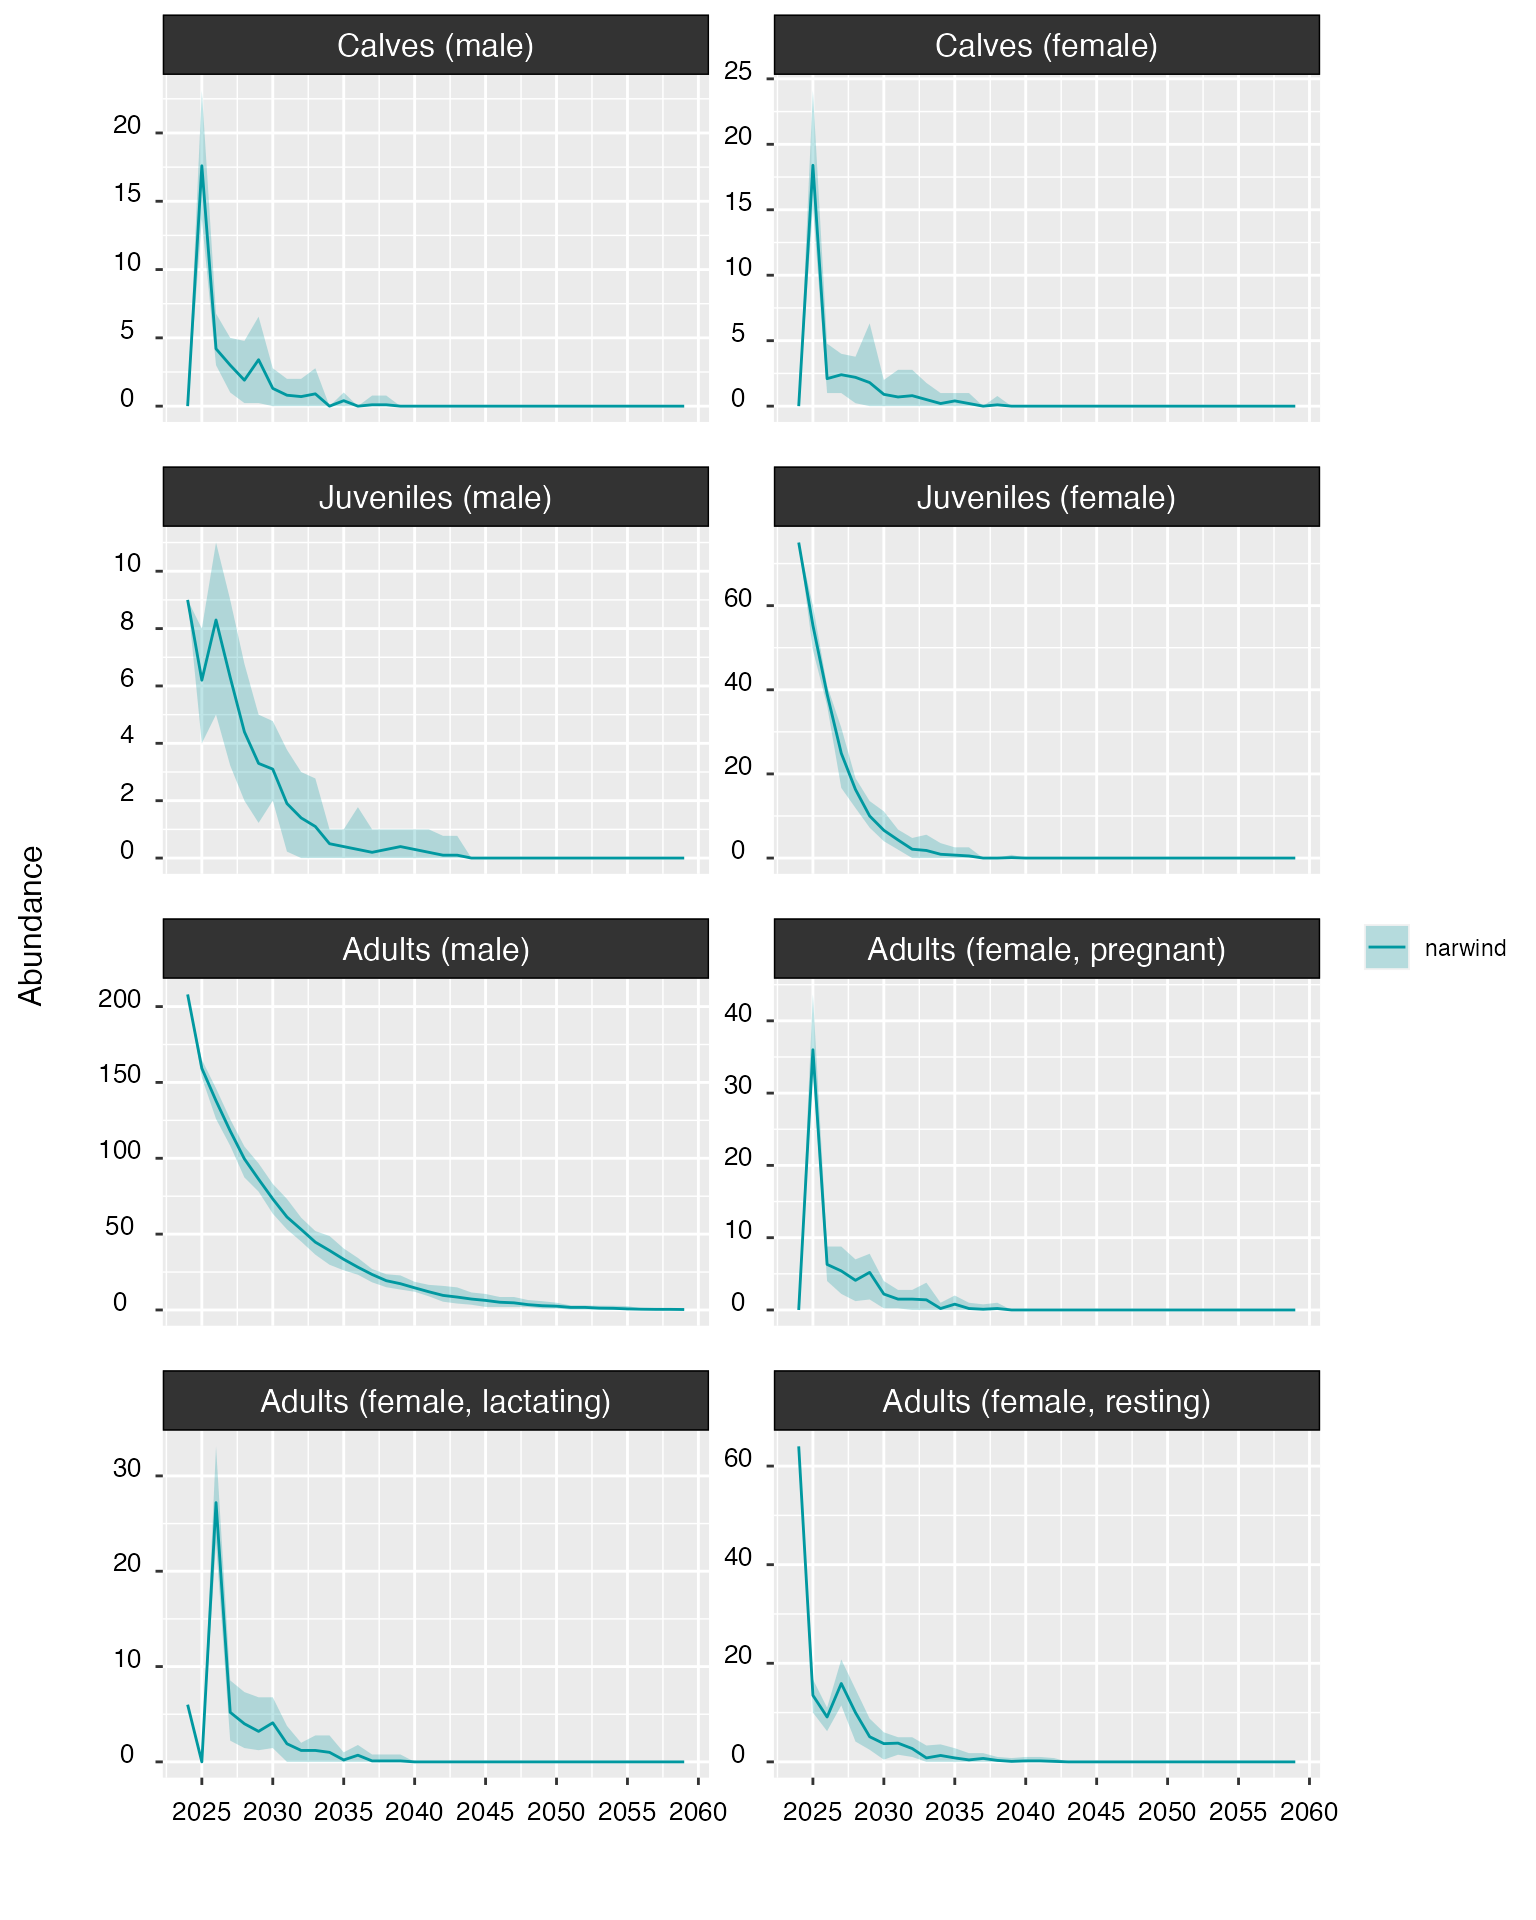
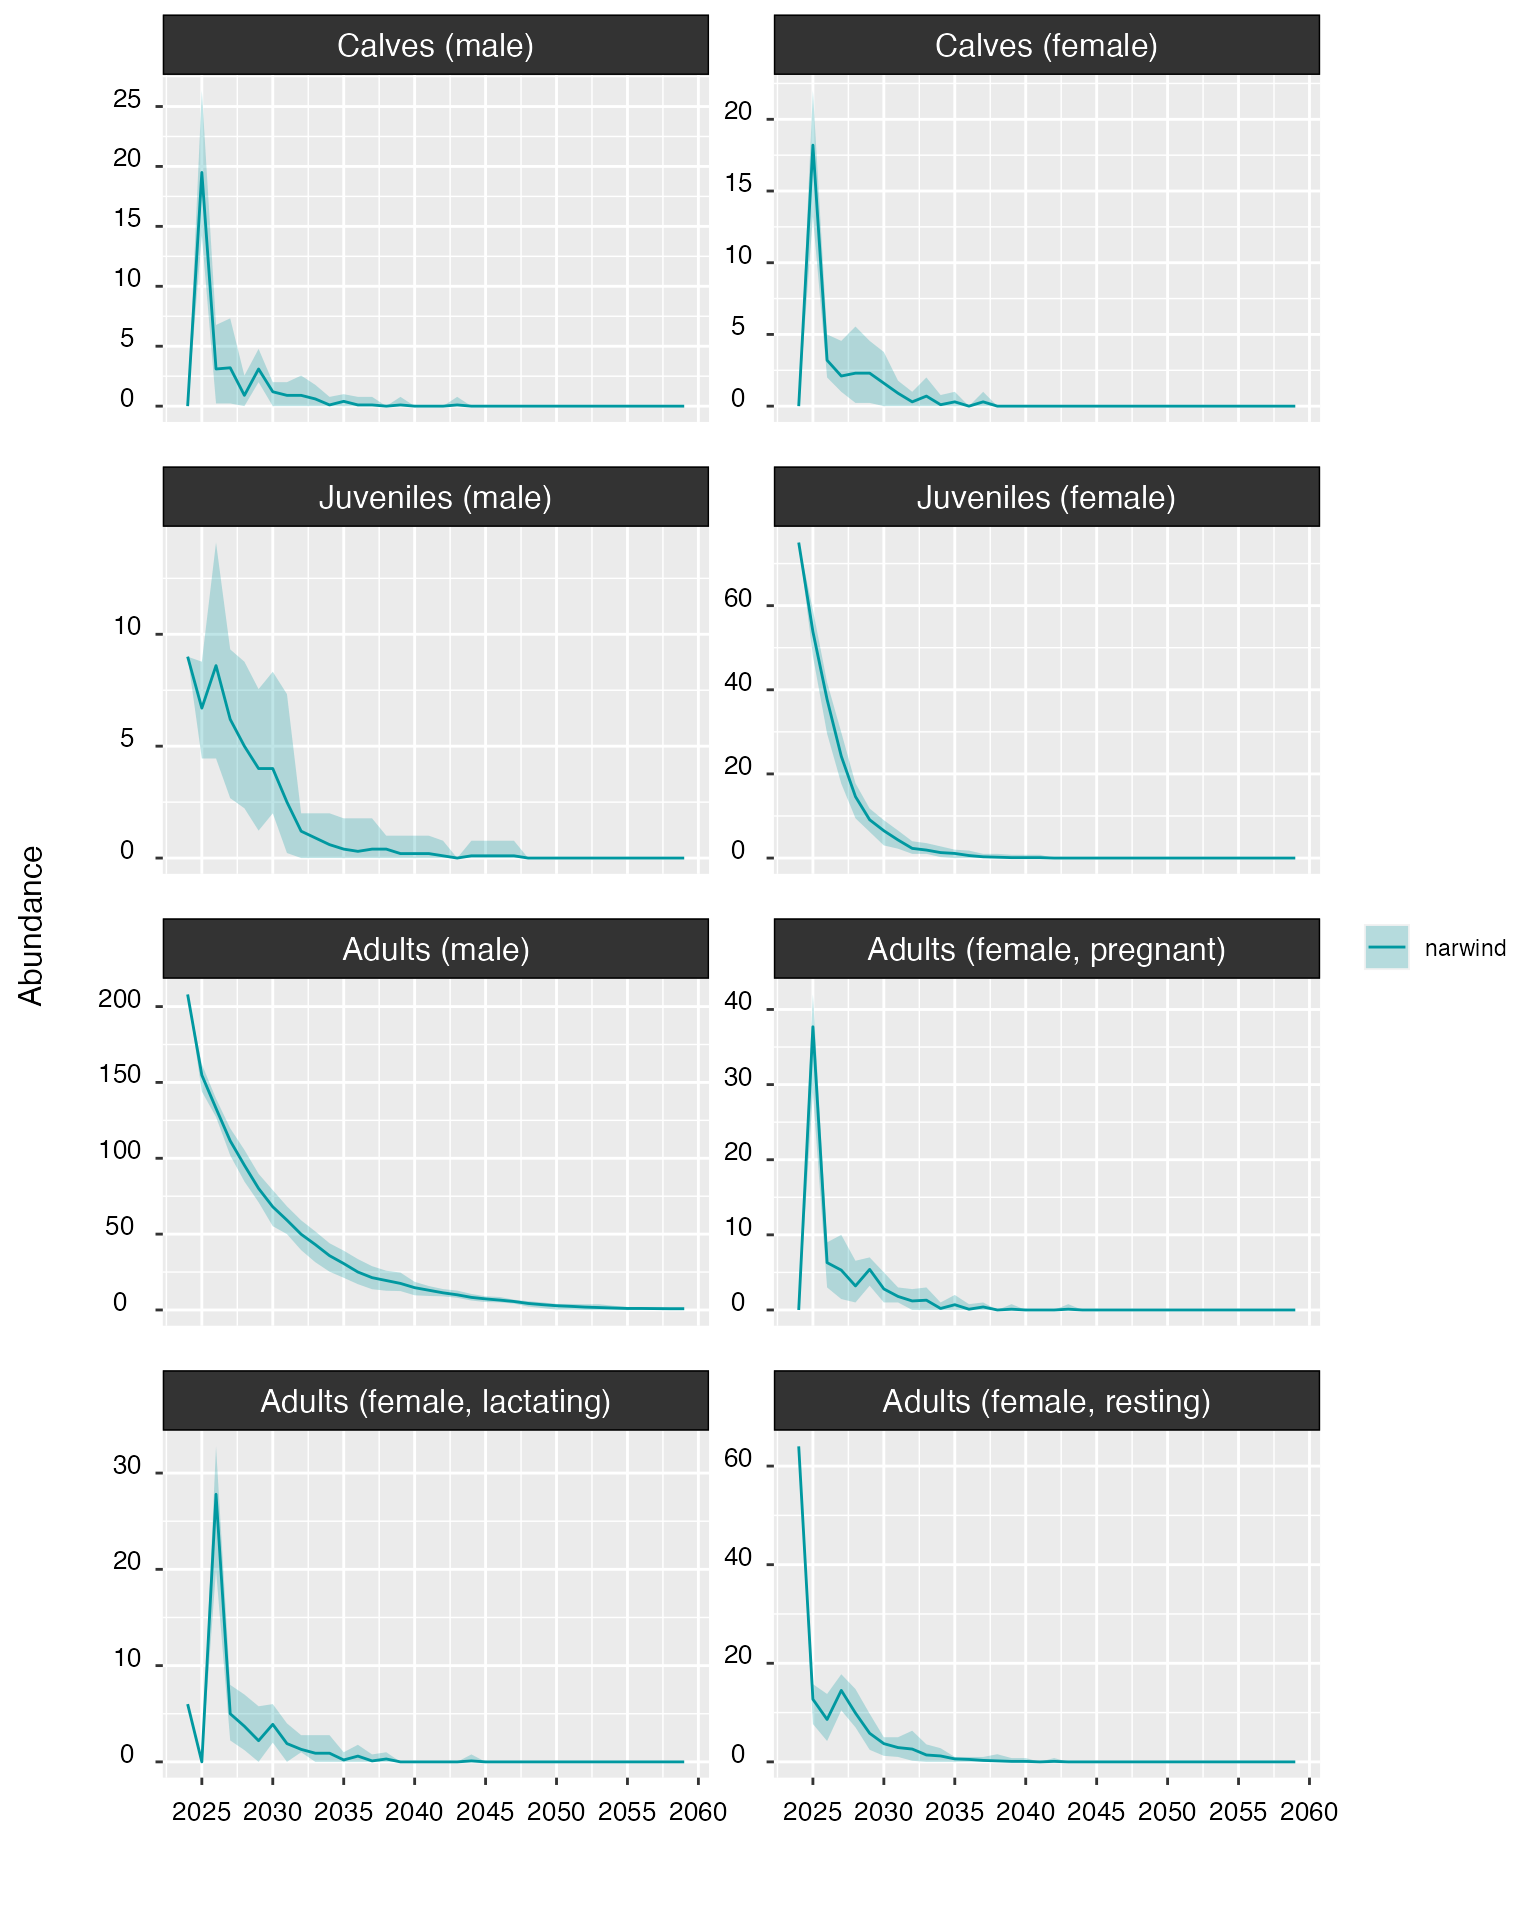
Update vignette

diff --git a/docs/articles/narwind.html b/docs/articles/narwind.html
@@ -113,6 +113,13 @@ construction, and (3) mortality and increased energy expenditure
 resulting from entanglement in fishing gear.</p>
 <p>This vignette is a step-by-step tutorial designed to showcase the
 main features of <code>narwind</code>.</p>
+<blockquote>
+<p><strong>Note:</strong> Model calibration is still ongoing as of
+January 31, 2024. The model outputs presented below are therefore
+provisional and only shown for instructional purposes; results should
+not presently be used to make inferences about wind farm effects on
+right whale population size.</p>
+</blockquote>
 </div>
 <div class="section level2">
 <h2 id="package-installation">Package installation<a class="anchor" aria-label="anchor" href="#package-installation"></a>
@@ -139,6 +146,10 @@ what a piece of code does), and are ignored by the program.</p>
 <span><span class="co"># narwind can be downloaded using the &lt;install_github&gt; command</span></span>
 <span><span class="fu">remotes</span><span class="fu">::</span><span class="fu"><a href="https://remotes.r-lib.org/reference/install_github.html" class="external-link">install_github</a></span><span class="op">(</span><span class="st">"offshore-wind/narwind"</span><span class="op">)</span> <span class="co"># OR</span></span>
 <span><span class="fu">devtools</span><span class="fu">::</span><span class="fu"><a href="https://remotes.r-lib.org/reference/install_github.html" class="external-link">install_github</a></span><span class="op">(</span><span class="st">"offshore-wind/narwind"</span><span class="op">)</span></span></code></pre></div>
+<p>Note that the package relies on compiled code (C++) and functionality
+provided by the <a href="https://cran.r-project.org/web/packages/Rcpp/index.html" class="external-link">Rcpp</a>
+package. The <code>Rtools</code> software may be needed on Windows
+machines. Installation instructions can be found at <a href="https://cran.r-project.org/bin/windows/Rtools/rtools40.html" class="external-link uri">https://cran.r-project.org/bin/windows/Rtools/rtools40.html</a></p>
 </div>
 <div class="section level2">
 <h2 id="overview">Overview<a class="anchor" aria-label="anchor" href="#overview"></a>
@@ -169,7 +180,7 @@ method.</li>
 <p><code>narwind</code> implements a spatially-explicit bioenergetic
 model which is informed by several raster surfaces relating to key model
 parameters, namely:</p>
-<table class="table">
+<table style="width:99%;" class="table">
 <colgroup>
 <col width="7%">
 <col width="7%">
@@ -429,13 +440,18 @@ Shiny app can be passed to <code><a href="../reference/narw.html">narw()</a></co
 in each population cohort under baseline conditions.</p>
 <div class="sourceCode" id="cb5"><pre class="downlit sourceCode r">
 <code class="sourceCode R"><span><span class="va">m</span> <span class="op">&lt;-</span> <span class="fu"><a href="../reference/narw.html">narw</a></span><span class="op">(</span>nsim <span class="op">=</span> <span class="fl">100</span><span class="op">)</span></span></code></pre></div>
+<blockquote>
+<p><strong>Note:</strong> This took 11 min 47 sec to run on a 2021 iMac
+(M1) running Mac OS Sonoma 14.1.2. However, run times may vary between
+operating systems.</p>
+</blockquote>
 <p>The arguments that can be passed to <code><a href="../reference/narw.html">narw()</a></code> are listed
 below.</p>
-<table class="table">
+<table style="width:100%;" class="table">
 <colgroup>
 <col width="4%">
 <col width="4%">
-<col width="91%">
+<col width="90%">
 </colgroup>
 <thead><tr class="header">
 <th>Argument</th>
@@ -537,11 +553,11 @@ simulation, for the first animal in each population cohort. Optional
 arguments allow users to override these default settings and display
 data for specific days, animals, and/or cohorts. The
 <code><a href="https://rdrr.io/r/base/print.html" class="external-link">print()</a></code> method has the following arguments:</p>
-<table class="table">
+<table style="width:100%;" class="table">
 <colgroup>
 <col width="3%">
 <col width="5%">
-<col width="91%">
+<col width="90%">
 </colgroup>
 <thead><tr class="header">
 <th>Argument</th>
@@ -755,11 +771,11 @@ movements, (3) habitat use, (4) behavior (i.e., activity budgets), (5)
 stressor exposure, and (6) energy intake vs. expenditure (see Table 1
 below).</p>
 <p>The function takes the following arguments:</p>
-<table class="table">
+<table style="width:100%;" class="table">
 <colgroup>
-<col width="3%">
 <col width="4%">
-<col width="91%">
+<col width="5%">
+<col width="90%">
 </colgroup>
 <thead><tr class="header">
 <th>Argument</th>
@@ -811,14 +827,14 @@ identifiers are listed in an object called <code>cohorts</code>.</td>
 </tr>
 </tbody>
 </table>
-<table class="table">
+<table style="width:99%;" class="table">
 <caption>Table 1. Overview of model diagnostics and summary statistics
 returned by the <code><a href="https://rdrr.io/r/base/summary.html" class="external-link">summary()</a></code> command.</caption>
 <colgroup>
 <col width="4%">
 <col width="12%">
 <col width="2%">
-<col width="80%">
+<col width="79%">
 </colgroup>
 <thead><tr class="header">
 <th>Category</th>
@@ -1571,11 +1587,11 @@ for multiple, alternative scenarios, e.g. involving different schedules
 of piling, different wind farm sites etc.</p>
 <p>The table below details the arguments that <code><a href="https://rdrr.io/r/stats/predict.html" class="external-link">predict()</a></code>
 accepts.</p>
-<table class="table">
+<table style="width:100%;" class="table">
 <colgroup>
-<col width="4%">
+<col width="5%">
 <col width="6%">
-<col width="88%">
+<col width="87%">
 </colgroup>
 <thead><tr class="header">
 <th>Argument</th>
@@ -1636,7 +1652,7 @@ console during execution.</td>
 #&gt; --------------------------------------------------------------------------------
 #&gt; 
 #&gt; Date: 2024-01-31 
-#&gt; Time: 14:07:06 
+#&gt; Time: 16:11:27 
 #&gt; 
 #&gt; ––– Projections:
 #&gt; 
@@ -1659,7 +1675,7 @@ Running projections ✔
 Summarizing outputs ...
 Summarizing outputs ✔  
 #&gt; ---------------------------------
-#&gt; Done | Time elapsed: 00:00:17</code></pre>
+#&gt; Done | Time elapsed: 00:00:16</code></pre>
 <blockquote>
 <p><strong>Note:</strong> <code><a href="https://rdrr.io/r/stats/predict.html" class="external-link">predict()</a></code> returns an object of
 class <code>narwproj</code>, which contains several datasets and model
@@ -1675,11 +1691,11 @@ trend. Setting the <code>noaa</code> argument to <code>TRUE</code> will
 overlay the population trend estimated by Runge <em>et al.</em> (2023).
 Other parameters can be modified to adjust plot aesthetics (see
 below).</p>
-<table class="table">
+<table style="width:99%;" class="table">
 <colgroup>
 <col width="6%">
-<col width="7%">
-<col width="85%">
+<col width="8%">
+<col width="84%">
 </colgroup>
 <thead><tr class="header">
 <th>Argument</th>
@@ -1756,12 +1772,12 @@ short simulation runs (<code>nsim = 100</code>) or less, or to use the
 specific individuals/cohorts. If the simulation run was given a label
 when using <code><a href="../reference/narw.html">narw()</a></code>, then this label is appended to the
 output file name.</p>
-<table class="table">
+<table style="width:99%;" class="table">
 <colgroup>
 <col width="8%">
 <col width="6%">
 <col width="9%">
-<col width="76%">
+<col width="74%">
 </colgroup>
 <thead><tr class="header">
 <th>Object class</th>
